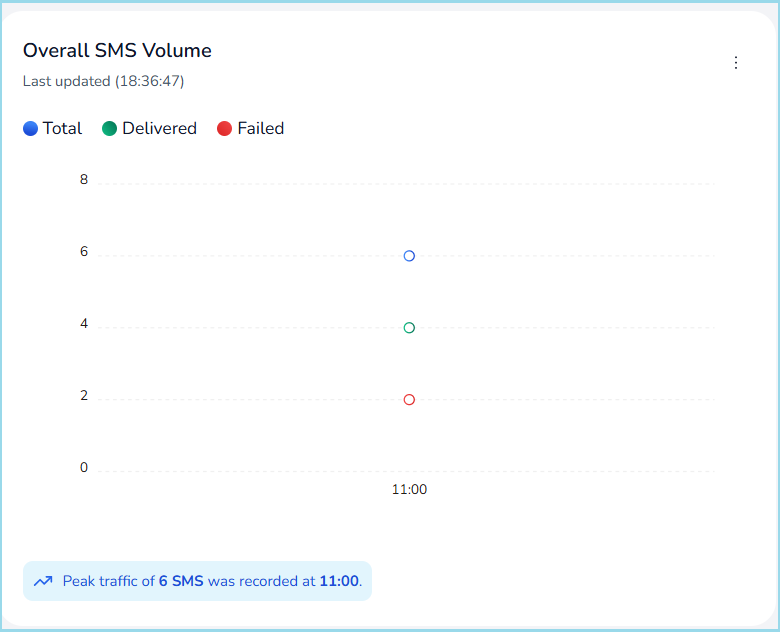
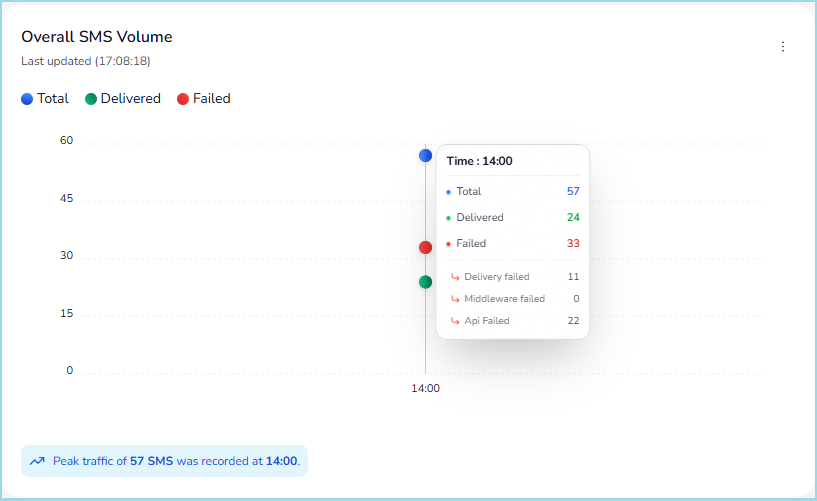
dashboard_update

diff --git a/docs/SMS/dashboard/dashboard_index.md b/docs/SMS/dashboard/dashboard_index.md
@@ -46,77 +46,256 @@ Users can switch between views to analyze different operational areas.
 
     **SMS Volume** view has the following sections:
 
-    ### Overall SMS Volume
+    ### Overall SMS volume
 
-    The **Overall SMS Volume** section displays SMS traffic processed by the platform during the selected reporting period.
-    
-    Shows total, delivered, and failed messages.
+    Shows total, delivered, and failed messages for the current day.
 
-    ![SMS Volume Cards](../../assets/images/sms_volume1.png){ width="400" }
+    Shows message activity using a time-based chart and highlights the time at which peak traffic was recorded today.
 
-    
-    This view helps users:
+      ![SMS Volume Cards](../../assets/images/sms_volume1.png){ width="600" }
 
-    - Monitor overall messaging activity
-    - Identify traffic spikes or unusual volume changes
-    - Analyze communication trends over time
-    - Highlights peak traffic time.
+    Hover over the chart to view the total number of messages sent, the number of messages delivered, and the number of messages that failed, along with failure reasons.
 
-    ### SMS Volume by Department
+    ---
 
-    The **SMS Volume by Department** section displays how SMS traffic is distributed across departments configured within the platform.
+    ### SMS volume by department
 
-    This information helps organizations understand communication usage patterns and identify departments generating significant messaging traffic.
+    Shows the distribution of SMS messages across departments for the current day.
 
-    ### SMS Volume by Service Provider
+    Shows department-wise activity using a comparative bar chart and tabular view to represent relative usage and highlights the departments with the highest traffic volume for the current day.
 
-    The **SMS Volume by Service Provider** section displays message distribution across configured service providers.
+      ![SMS Volume Cards](../../assets/images/sms_volume2.png){ width="600" }
 
-    This information can be used to:
+    Hover over each bar to view the total number of messages sent, the number of messages delivered, and the number of messages that failed, along with failure reasons.
 
-    * Review provider utilization
-    * Verify routing behavior
-    * Monitor traffic distribution
-    * Evaluate provider performance
+    ---
 
-    ### SMS Volume by Service Type
+    ### SMS volume by service provider
 
-    The **SMS Volume by Service Type** section categorizes SMS traffic based on message type.
+    Shows the distribution of SMS messages across service providers for the current day.
 
-    Depending on the organization's configuration, service types may include:
+    Shows provider-wise activity using a horizontal bar chart to compare traffic allocation and highlights the service provider that handled the highest traffic volume for the current day.
 
-    * OTP messages
-    * Transactional messages
-    * Notification messages
-    * Promotional messages
+      ![SMS Volume Cards](../../assets/images/sms_volume3.png){ width="800" }
 
-    This view helps users understand how messaging traffic is distributed across different business communication categories.
+    Hover over each bar to view the total number of messages processed by the selected provider.
 
-    ### Last Updated Information
+    ---
 
-    Each dashboard widget displays a **Last Updated** timestamp indicating when the displayed data was most recently refreshed.
+    ### SMS volume by service type
 
-    This information helps users determine the freshness of dashboard data when monitoring platform activity.
+    Shows the distribution of SMS messages by service type for the current day.
 
-    ### Refresh Dashboard Data
+    Shows categorized activity using a stacked bar chart to understand how messaging traffic is distributed across different business communication categories.
 
-    The **Refresh** option retrieves the latest available dashboard information.
+      ![SMS Volume Cards](../../assets/images/sms_volume4.png){ width="800" }
 
-    Users can use this option when monitoring active communication events or investigating operational issues that require current data.
+    Hover over each segment to view the total number of messages sent, the number of messages delivered, and the number of messages that failed, along with failure reasons for each service type.
+
 
 === "Service Provider"
 
-    To be added dsds
+    **Service Provider** view has the following sections:
+
+    ### Service provider status
+
+    Shows the status of all configured service providers for the current day.
+
+    Shows provider availability using a status list and highlights whether each provider is active or inactive.
+
+      ![Service Provider Status](../../assets/images/service_provider1.png){ width="500" }
+
+    Helps users quickly identify inactive providers and monitor provider availability across the platform.
+
+    ---
+
+    ### Service provider traffic
+
+    Shows the distribution of SMS traffic across service providers for the current day.
+
+    Shows traffic share using a donut chart to represent relative contribution and highlights the service provider with the highest traffic share.
+
+    ![Service Provider Traffic](../../assets/images/sp_overview2.png){ width="500" }
+
+    Hover over each segment to view the percentage and total traffic handled by the selected provider.
+
+    ---
+
+    ### Total API calls today
+
+    Shows the total number of API calls processed by the platform for the current day.
+
+    Shows API activity using a time-based chart and highlights the time at which peak API traffic was recorded today.
+
+    ![Total API Calls](../../assets/images/sp_overview3.png){ width="500" }
+
+    Hover over the chart to view the number of API calls processed at a specific time.
+
+    ---
+
+    ### Delivery reports received
+
+    Shows the number of message sent and delivery reports received from service providers for the current day.
+
+    Shows provider-wise delivery reports using a comparative bar chart to represent message acknowledgements.
+
+    ![Delivery Reports](../../assets/images/sp_overview4.png){ width="500" }
+
+    Hover over each bar to view the total number of message sent, delivery reports received, and delivery rate for the selected provider.
+
+    ---
+
+    ### Ongoing TPS by service provider
+
+    Shows the current transactions per second (TPS) handled by each service provider.
+
+    Shows real-time TPS activity and indicates live system throughput.
+
+    Displays real-time status and may show no data when there is no active traffic.
+
+    ---
+
+    ### Avg latency by service provider
+
+    Shows the average message processing latency for each service provider.
+
+    Shows latency metrics to help evaluate provider responsiveness and performance.
+
+    Displays real-time status and may show no data when latency data is not available.
+
+    ---
+
+    ### Successful deliveries today
+
+    The **Successful Deliveries Today** pane includes two tabs: **Delivery by Number** and **Delivery by Percentage**.
+
+    **Delivery by Number** shows the total number of successfully delivered messages for each service provider for the current day.
+
+    **Delivery by Percentage** shows the delivery success rate, expressed as a percentage, for each service provider for the current day.
+
+    Shows provider-wise delivery success using a horizontal bar chart and highlights the provider with the highest successful deliveries.
+
+    ![Successful Deliveries](../../assets/images/sp_overview5.png){ width="800" }
+
+    Hover over each bar to view the total number messages sent, the number of messages successfully delivered, and delivery rate for the selected provider.
+
+    ---
+
+    ### API calls by service provider today
+
+    Shows the distribution of API calls across service providers for the current day.
+
+    Shows categorized activity using a grouped bar chart to represent successful, retry, and failed API calls.
+
+    ![API Calls by Provider](../../assets/images/sp_overview6.png){ width="800" }
+
+    Hover over each bar to view the total number of API calls by status for the selected provider.
+
 
 === "System Health"
 
-    To be added
+    **System Health** view has the following sections:
+
+    ### Server statistics
+
+    Shows infrastructure-level performance metrics for all servers for the current day.
+
+    Shows server utilization using a tabular view that includes CPU usage, memory usage, thread count, disk utilization, and I/O activity, along with threshold status.
+
+    ![Server Statistics](../../assets/images/sy_server.png){ width="800" }
+
+    Helps users monitor server performance and identify resources that exceed defined thresholds.
+
+    ---
+
+    ### Network statistics
+
+    Shows network-level performance metrics for all servers for the current day.
+
+    Shows latency and component-level information using a tabular view, along with timestamp and threshold status.
+
+    ![Network Statistics](../../assets/images/sy_network.png){ width="800" }
+
+    Helps users monitor network performance and identify latency or connectivity issues across the platform.
 
 === "Applications"
 
-    To be added
+    **Applications** view has the following sections:
+
+    ### Kafka
+
+    Shows the operational status and resource utilization of Kafka components.
+
+    Shows component-level activity using a tabular view, including CPU usage, memory usage, thread count, active connections, and heap memory consumption.
+
+    ![Kafka](../../assets/images/app1.png){ width="800" }
+
+    Highlights the health status of each Kafka instance and indicates whether it is operating within defined thresholds.
+
+    Hover over each instance name to view heap usage details, including current heap consumption and configured limits.
+
+    ### Database
+
+    Shows the operational status and performance metrics of database systems.
+
+    Shows database activity using a tabular view, including CPU usage, memory usage, active connections, and threshold status.
+
+    ![Database](../../assets/images/app2.png){ width="800" }
+
+    Highlights databases that exceed defined thresholds and indicates whether each database is active or inactive.
+
+    Hover over each instance name to view error details.
+
+    ### I/O Database
+
+    Shows I/O-level activity and interaction counts for database components.
+
+    Shows component-level I/O activity using a tabular view, including operation count, associated component, and execution time.
+
+    ![I/O Database](../../assets/images/app3.png){ width="800" }
+
+    Highlights the operational status of each component based on defined thresholds.
+
+    ### Redis
+
+    Shows the operational status and resource utilization of Redis instances.
+
+    Shows instance-level activity using a tabular view, including CPU usage, memory usage, and threshold status.
+
+    ![Redis](../../assets/images/app4.png){ width="800" }
+
+    Highlights whether each Redis instance is active and operating within acceptable limits.
+
+    ### Webserver
+
+    Shows the operational status of web server services.
+
+    Shows service-level activity using a tabular view, including host name, response status code, execution time, and threshold status.
+
+    ![Webserver](../../assets/images/app5.png){ width="800" }
+
+    Highlights services that are inactive or have exceeded defined thresholds.
+
+    Hover over each instance name to view error details.
+
+    ### Applications
+
+    Shows the operational status and performance metrics of application services.
+
+    Shows application-level activity using a tabular view, including CPU usage, memory usage, thread count, and heap memory consumption.
+
+    ![Applications](../../assets/images/app6.png){ width="800" }
+
+    Highlights the status of each application service and indicates whether it is active or inactive.
+
+    Hover over each instance name to view error details.
 
 
+!!! tip "Refresh and export data"
+
+    - Select **Refresh** to retrieve the latest dashboard data.
+    - Select **More options (⋮)** on a pane, then choose **Refresh** to update that pane.
+    - Select **More options (⋮)** on a pane, then choose **Export** to download the data in CSV format.
 
 
 